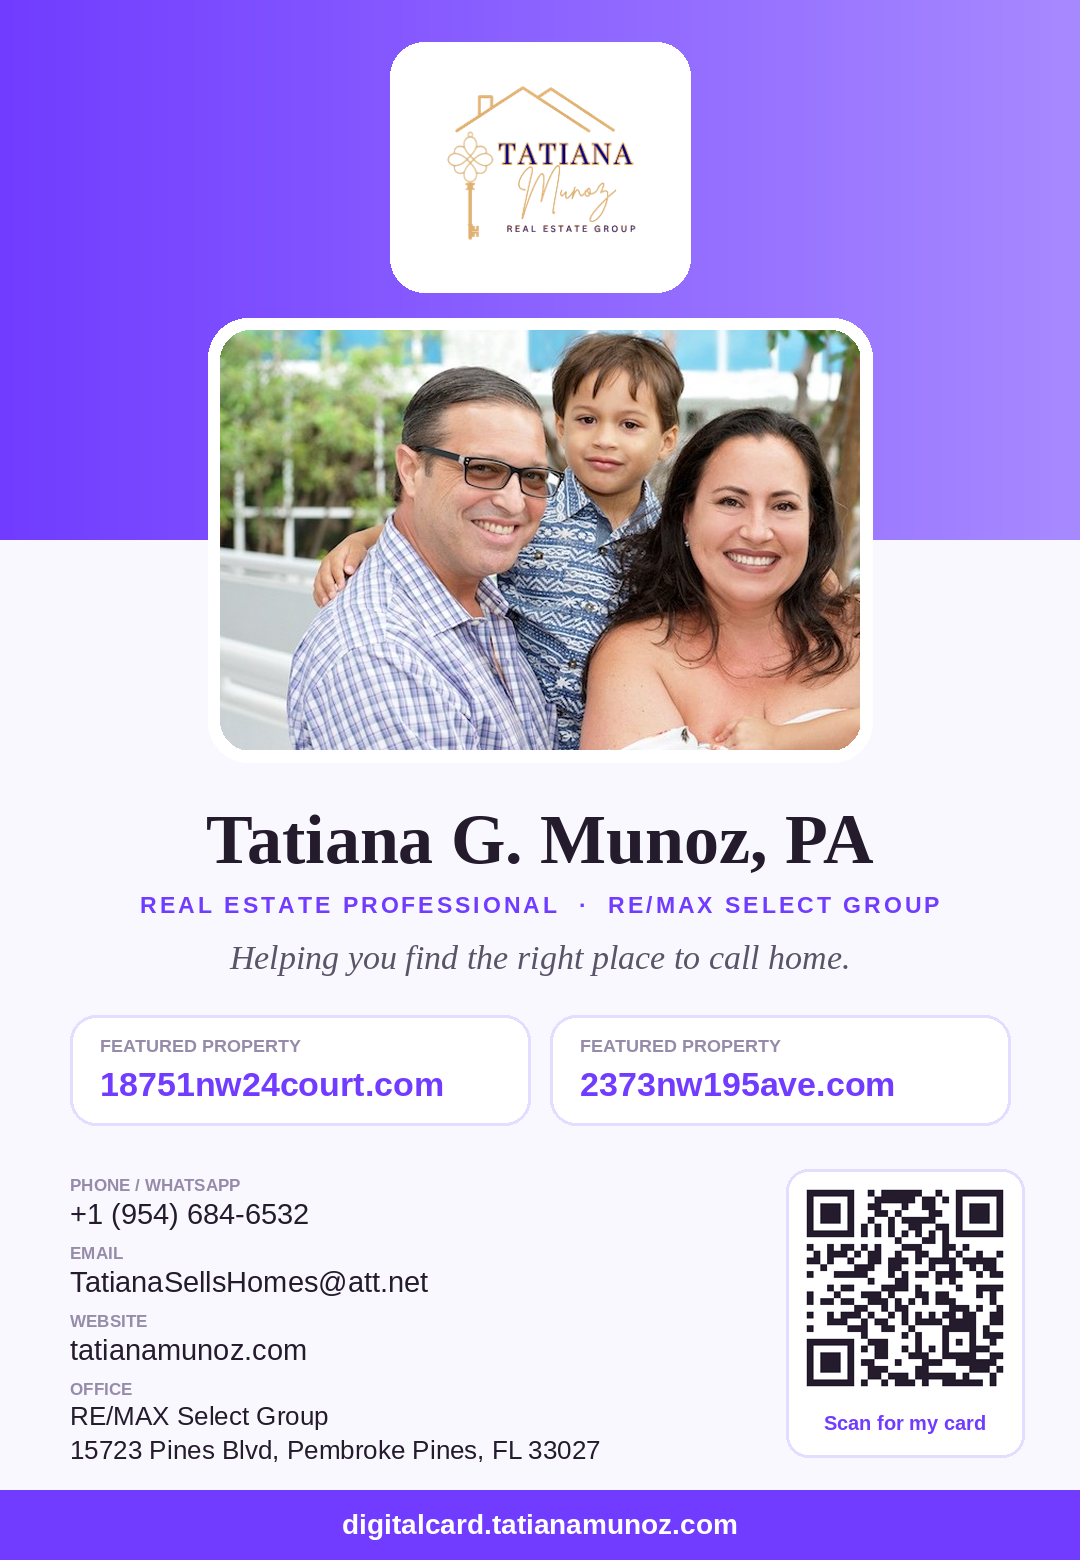
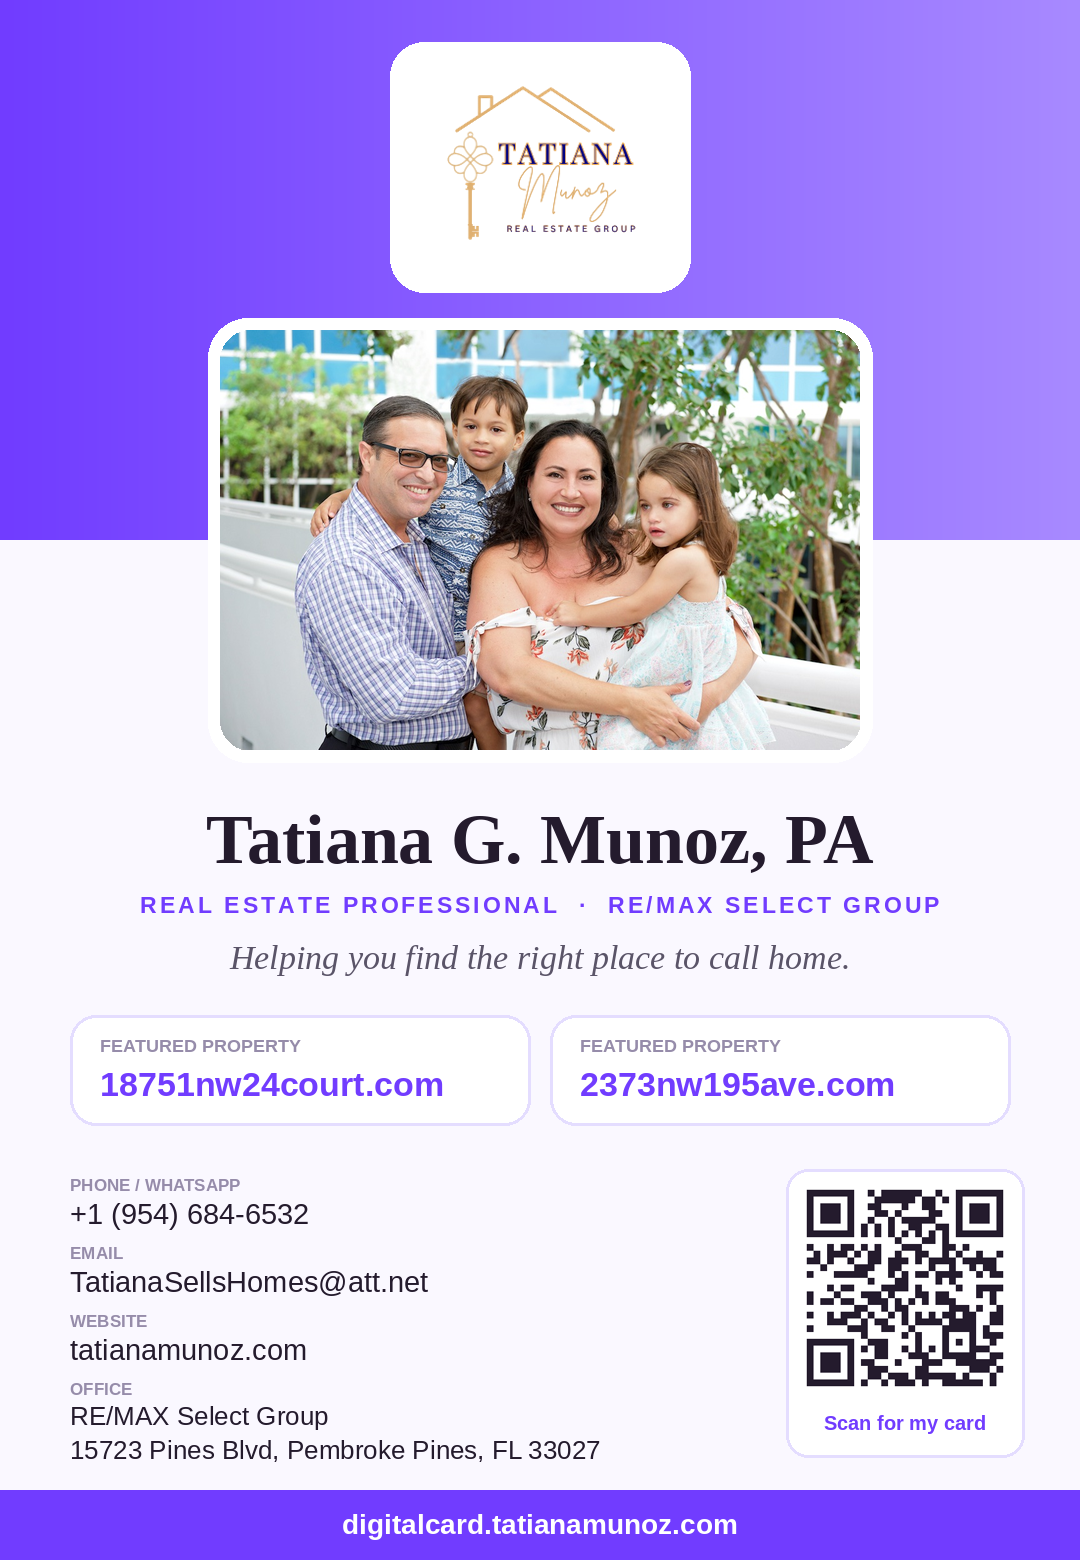
Recenter profile photo

Changed region(s): [[0.1833, 0.1846, 0.7944, 0.4923]]

diff --git a/index.html b/index.html
@@ -25,7 +25,7 @@ body{margin:0;min-height:100vh;display:grid;place-items:center;padding:24px 16px
 .brand{font-family:Georgia,serif;font-size:17px;letter-spacing:.12em;text-transform:uppercase;line-height:1.25}
 .brand small{display:block;font:10px Arial,sans-serif;letter-spacing:.2em;margin-top:6px;opacity:.9}
 .photo-wrap{margin:-64px auto 0;width:136px;position:relative}
-.photo{display:block;width:136px;height:136px;object-fit:cover;object-position:center 30%;border-radius:26px;border:5px solid #fff;box-shadow:0 8px 25px #29154733}
+.photo{display:block;width:136px;height:136px;object-fit:cover;object-position:center;border-radius:26px;border:5px solid #fff;box-shadow:0 8px 25px #29154733}
 .id{text-align:center;padding:14px 24px 0}
 .name{font:bold 26px/1.15 Georgia,serif;margin:0 0 6px}
 .title{font-size:11px;color:var(--purple);font-weight:700;letter-spacing:.1em;text-transform:uppercase}
